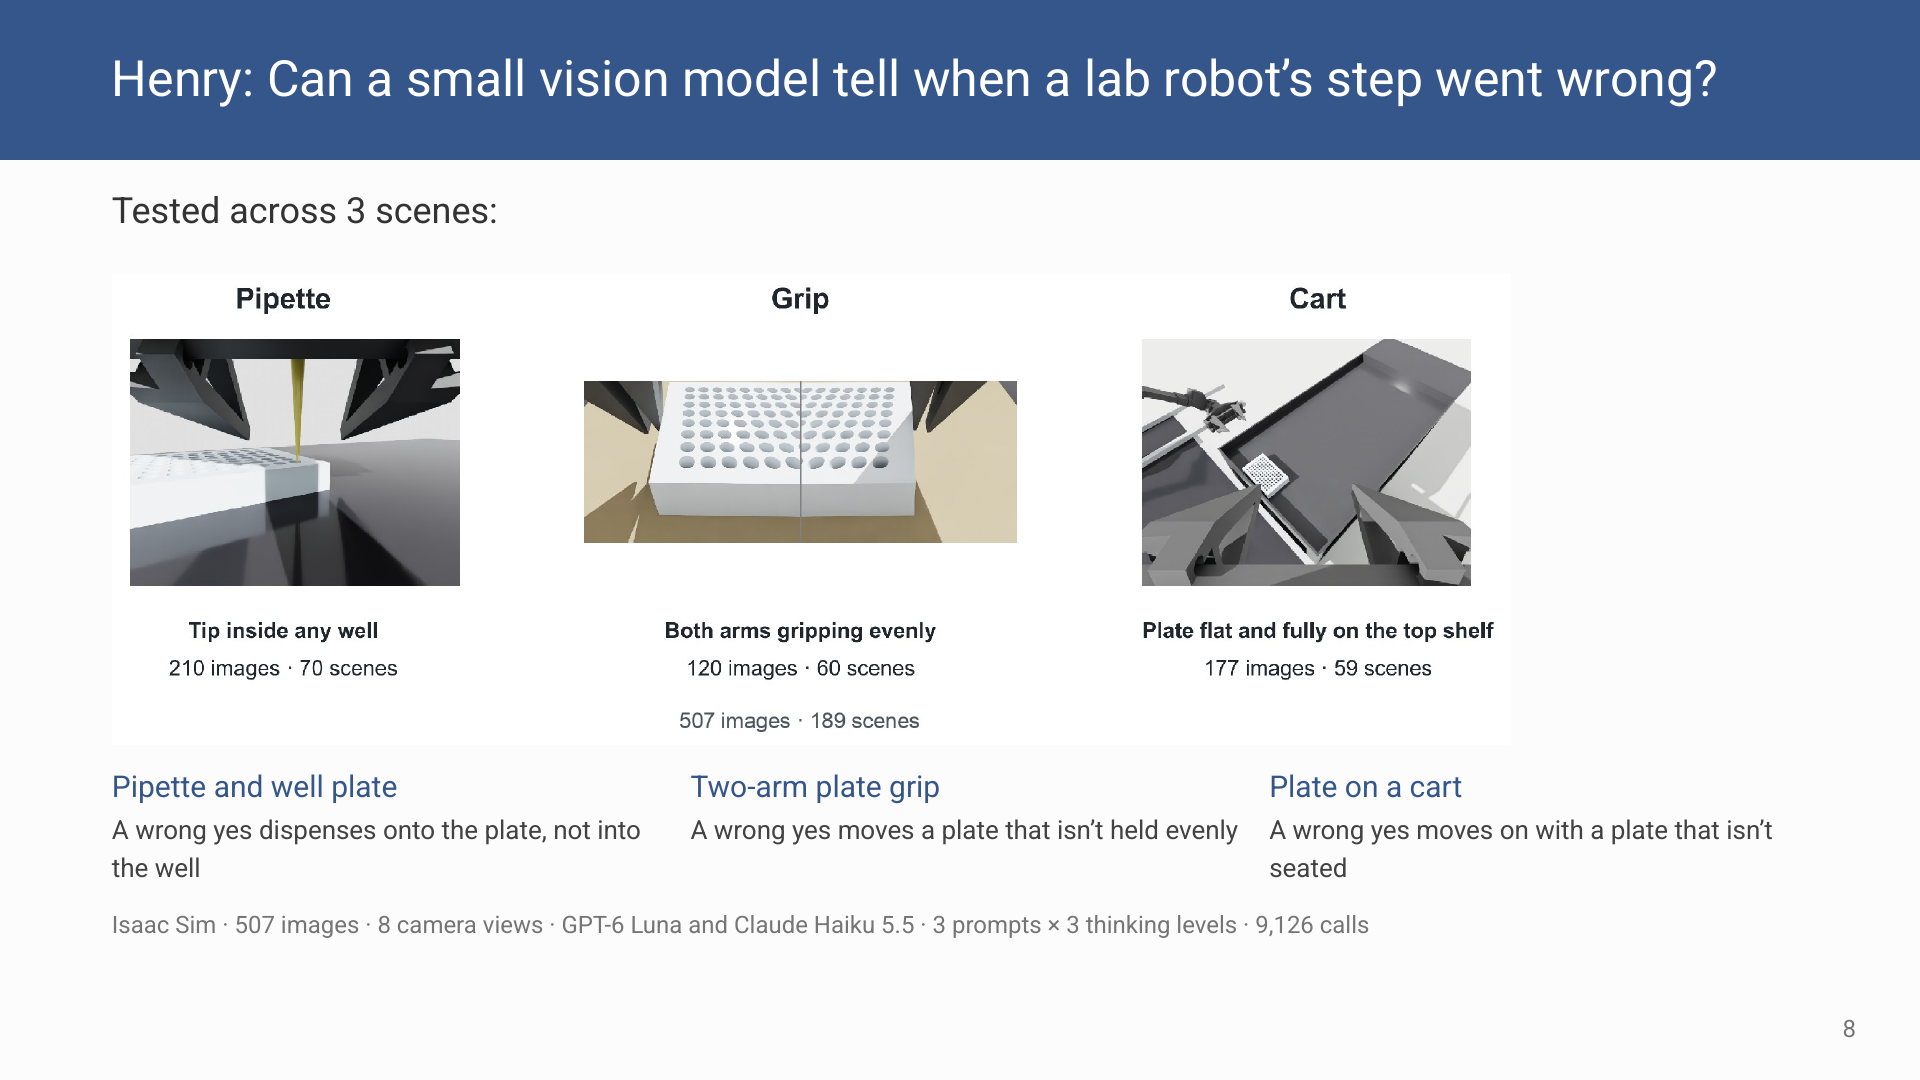
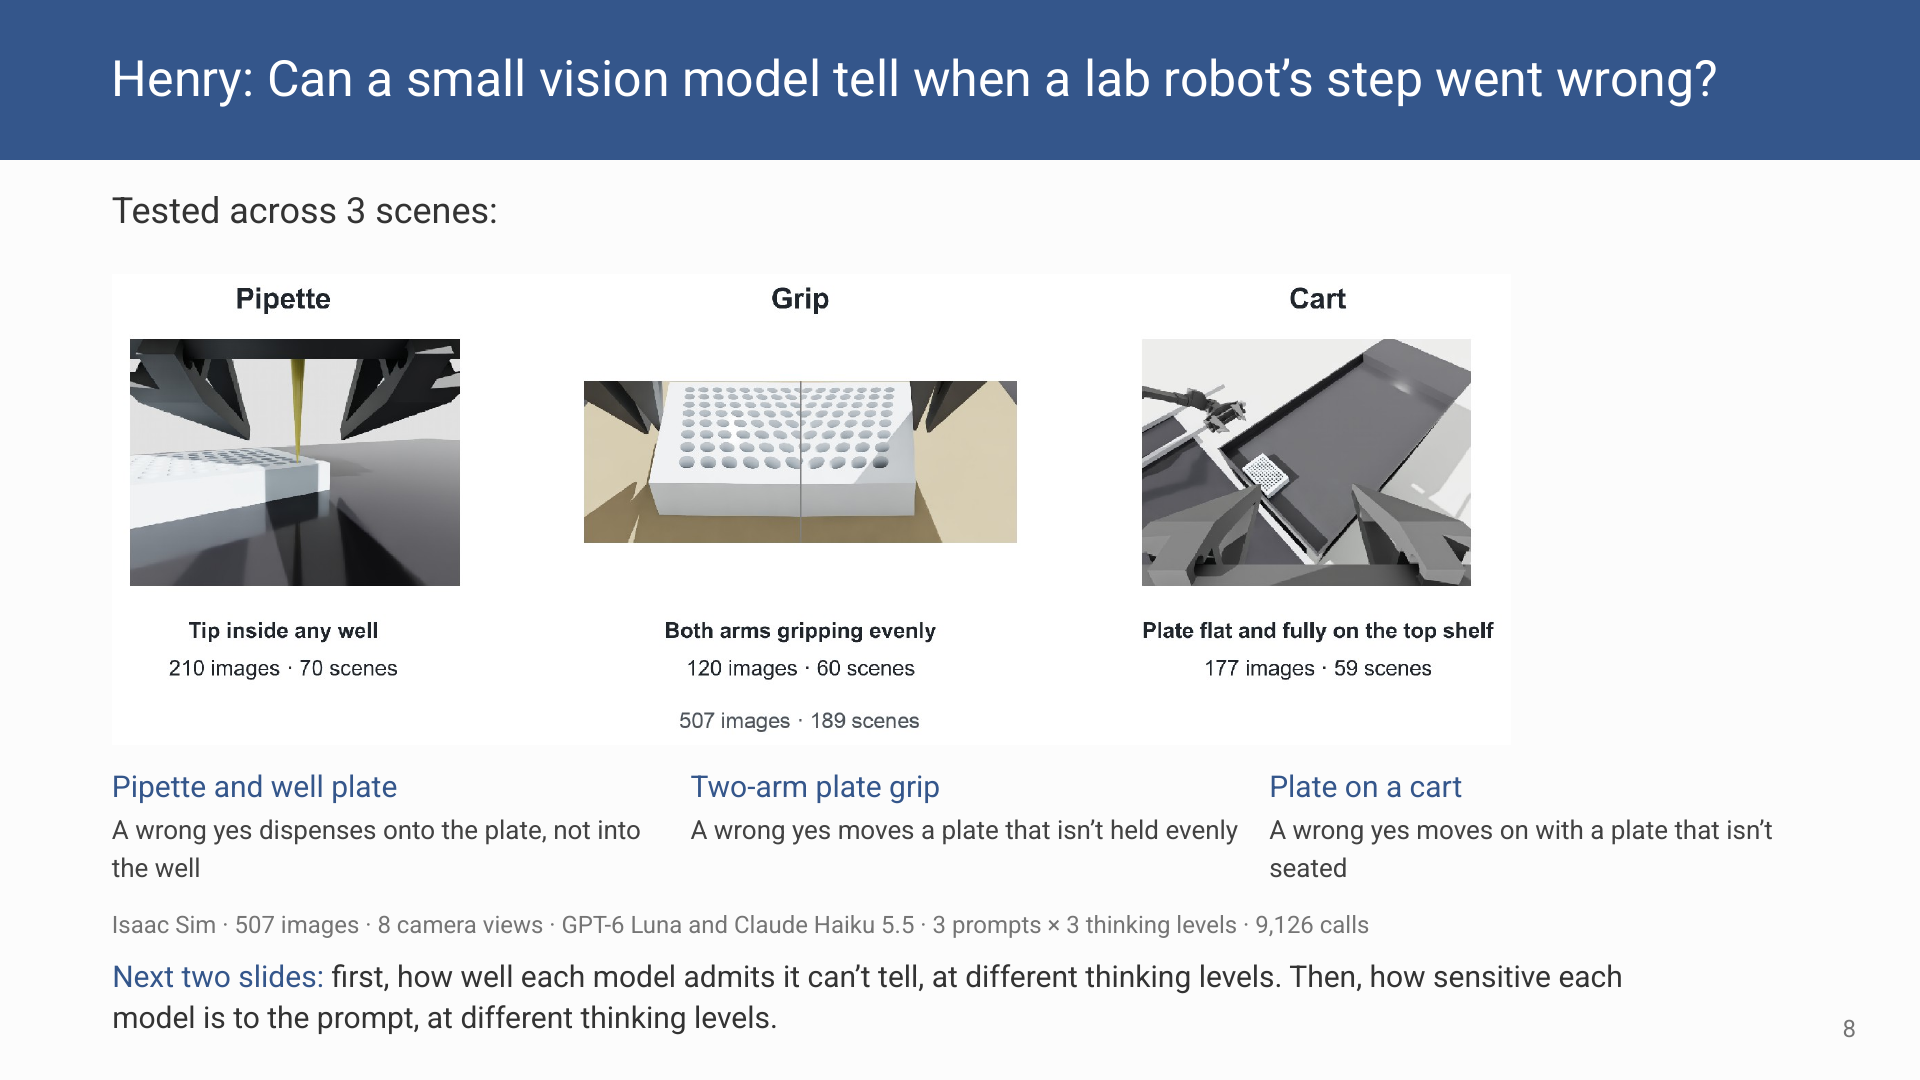
Slide 8: say what the next two slides look at

Changed region(s): [[0.0625, 0.8861, 0.8438, 0.9472]]

diff --git a/index.html b/index.html
@@ -40,7 +40,7 @@ a { color: #34568B; }
 <figure class="frame"><img class="slide" src="slides/slide-05.png" alt="Slide 5. Adyaa: Can AI Models Pass A Surgical Test? Can AI models control a pair of manipulators and pass a surgical skills test from photos alone? The Setup Two YAM arms in Isaac Sim perform the peg transfer from the surgeons’ Fundamentals of Laparoscopic Surgery exam; 6 pegs, 12 transfers Two models (OpenAI’s GPT-6.1 Sol and Anthropic’s Claude Opus 5.5) tested against each other and a stand-in model for accuracy and performance Each turn the model sees an overhead photo with a millimetre grid + wrist camera photos The models decide each pick, a mid-air transfer and a place, then a controller moves the arms One transfer by Claude Opus 5.5, 2× speed Isaac Sim 6.0.1, run on A10 nodes of Purdue’s Gilbreth cluster Two I2RT YAM arms GPT-6.1 Sol and Claude Opus 5.5, medium thinking 3 rounds per model, plus 3 scripted baseline runs FLS Instructions and Guidelines. Source: FLS Manual Skills Written Instructions and Performance Guidelines" width="1920" height="1080" loading="lazy"><img class="clip" src="clips/slide-05-clip-1.gif" alt="Two black YAM arms pass a red triangle mid-air and place it on a peg" loading="lazy" style="left:62.917%;top:20.197%;width:31.250%;height:31.296%"><a class="hit" href="https://www.flsprogram.org/wp-content/uploads/2014/03/Revised-Manual-Skills-Guidelines-February-2014.pdf" target="_blank" rel="noopener" aria-label="Open link: https://www.flsprogram.org/wp-content/uploads/2014/03/Revised-Manual-Skills-Guidelines-February-2014.pdf" style="left:85.249%;top:90.262%;width:10.053%;height:2.521%"></a><a class="hit" href="https://www.flsprogram.org/wp-content/uploads/2014/03/Revised-Manual-Skills-Guidelines-February-2014.pdf" target="_blank" rel="noopener" aria-label="Open link: https://www.flsprogram.org/wp-content/uploads/2014/03/Revised-Manual-Skills-Guidelines-February-2014.pdf" style="left:62.581%;top:93.280%;width:28.511%;height:2.521%"></a></figure>
 <figure class="frame"><img class="slide" src="slides/slide-06.png" alt="Slide 6. Adyaa: Results? In our runs, Claude Opus 5.5 did better because it chained several actions in one turn. GPT-6.1 Sol placed the pegs more precisely but used one action per turn and ran out of turns every time. Rounds 1 to 3   Scripted baseline   GPT-6.1 Sol   Claude Opus 5.5 Transfers done, of 12   12, 12, 12   6, 5, 5   12, 10, 12 Actions per turn   3.0   1.0   3.1 to 4.6 Mean placement error   0 mm   1.2 to 2.9 mm   3.0 to 4.8 mm Reward, of 100   76.1, 74.6, 75.9   50.1, 46.0, 45.1   67.0, 51.4, 58.3 Cost for 3 rounds   $0   $0.33   $2.44 Model performance vs time for both the models, three rounds each. Opus 5.5 is capable of making a speedy recovery even after huge negative rewards whereas GPT-6.1 Sol recovers slowly. Opus 5.5 leads every round by a huge margin. Same three boards for every column. Different peg orientation every time" width="1920" height="1080" loading="lazy"></figure>
 <figure class="frame"><img class="slide" src="slides/slide-07.png" alt="Slide 7. Adyaa: What did we learn? Both models stayed below the scripted baseline of 76. Best run was rewarded 67.0 by Claude Opus 5.5, round 1 Both got slightly better but the reward didn’t increase as changed orientations caused more contacts. Limits The model got photos and word feedback only, no depth or coordinates One run per round, on three boards, different peg orientations each board Next Version 3: no grid, an angled camera like a laparoscope, and both arms working at once All runs in a comparison view. The left panels are GPT-6.1 Sol and the right are Claude Opus 5.5. GPT-6.1 Sol always ends early because of not chaining actions. What the model sees each turn, first turn to last" width="1920" height="1080" loading="lazy"><img class="clip" src="clips/slide-07-clip-1.gif" alt="The overhead photo of the peg board with a millimetre grid, as the model saw it at each turn" loading="lazy" style="left:10.237%;top:67.976%;width:40.129%;height:26.396%"><img class="clip" src="clips/slide-07-clip-2.gif" alt="Clip from the slide" loading="lazy" style="left:65.375%;top:19.259%;width:31.291%;height:53.672%"></figure>
-<figure class="frame"><img class="slide" src="slides/slide-08.png" alt="Slide 8. Henry: Can a small vision model tell when a lab robot’s step went wrong? Tested across 3 scenes: Pipette and well plate Two-arm plate grip Plate on a cart A wrong yes dispenses onto the plate, not into the well A wrong yes moves a plate that isn’t held evenly A wrong yes moves on with a plate that isn’t seated Isaac Sim · 507 images · 8 camera views · GPT-6 Luna and Claude Haiku 5.5 · 3 prompts × 3 thinking levels · 9,126 calls" width="1920" height="1080" loading="lazy"></figure>
+<figure class="frame"><img class="slide" src="slides/slide-08.png" alt="Slide 8. Henry: Can a small vision model tell when a lab robot’s step went wrong? Tested across 3 scenes: Pipette and well plate Two-arm plate grip Plate on a cart A wrong yes dispenses onto the plate, not into the well A wrong yes moves a plate that isn’t held evenly A wrong yes moves on with a plate that isn’t seated Isaac Sim · 507 images · 8 camera views · GPT-6 Luna and Claude Haiku 5.5 · 3 prompts × 3 thinking levels · 9,126 calls Next two slides: first, how well each model admits it can’t tell, at different thinking levels. Then, how sensitive each model is to the prompt, at different thinking levels." width="1920" height="1080" loading="lazy"></figure>
 <figure class="frame"><img class="slide" src="slides/slide-09.png" alt="Slide 9. Henry: Luna and Haiku’s ability to disclose limitations Figure 1. A breakdown of “can’t tell” as an answer by thinking levels and model Figure 2. Example images for scenes 1, 2, and 3 respectively for when there is not enough information Baseline was larger models and human reviewers that were tested to see whether they can conclude enough information from either of the scenes. When the camera can’t show the answer, the models often answer anyway. Haiku was more willing to say “can’t tell”, most clearly on the pipette overhead view (98.6% against 0% for Luna). The models answered most when the picture gave them something to go on." width="1920" height="1080" loading="lazy"></figure>
 <figure class="frame"><img class="slide" src="slides/slide-10.png" alt="Slide 10. Henry: Prompt sensitivity Haiku is very sensitive to the prompt. With the safety warning it approved almost nothing in all three scenes, good steps included. Luna barely reacts when the camera shows the answer. It still approved 13 of 30 bad tips under the safety warning. With thinking off, the prompt works better on Luna. On the hidden overhead view its wrong approvals fell from 13 to 0, versus 21 to 11 at high thinking. P0 base prompt · P2 adds a “can’t tell” sentence · P5 adds a warning that the materials are hazardous. A later, separate run at max thinking approved 59 of 60, including all 30 not in a well." width="1920" height="1080" loading="lazy"></figure>
 <figure class="frame"><img class="slide" src="slides/slide-11.png" alt="Slide 11. Tools across the three projects Fernando   Adyaa   Henry Simulator   MuJoCo 3.5   Isaac Sim   Isaac Sim Robot   Two I2RT YAM arms   Two I2RT YAM arms   ViperX 300 Models   GPT-6 Luna, GPT-6 Sol, Claude Haiku 5.5, Qwen3.8-27B   GPT-6.1 Sol, Claude Opus 5.5   GPT-6 Luna, Claude Haiku 5.5 Scoring   20 held-out layouts per run, against a hand-written reference   Transfers, reward and contacts, against a scripted baseline   Answer key from the 3D geometry All three: jobs on A10 GPU nodes of Purdue’s Gilbreth cluster." width="1920" height="1080" loading="lazy"></figure>
